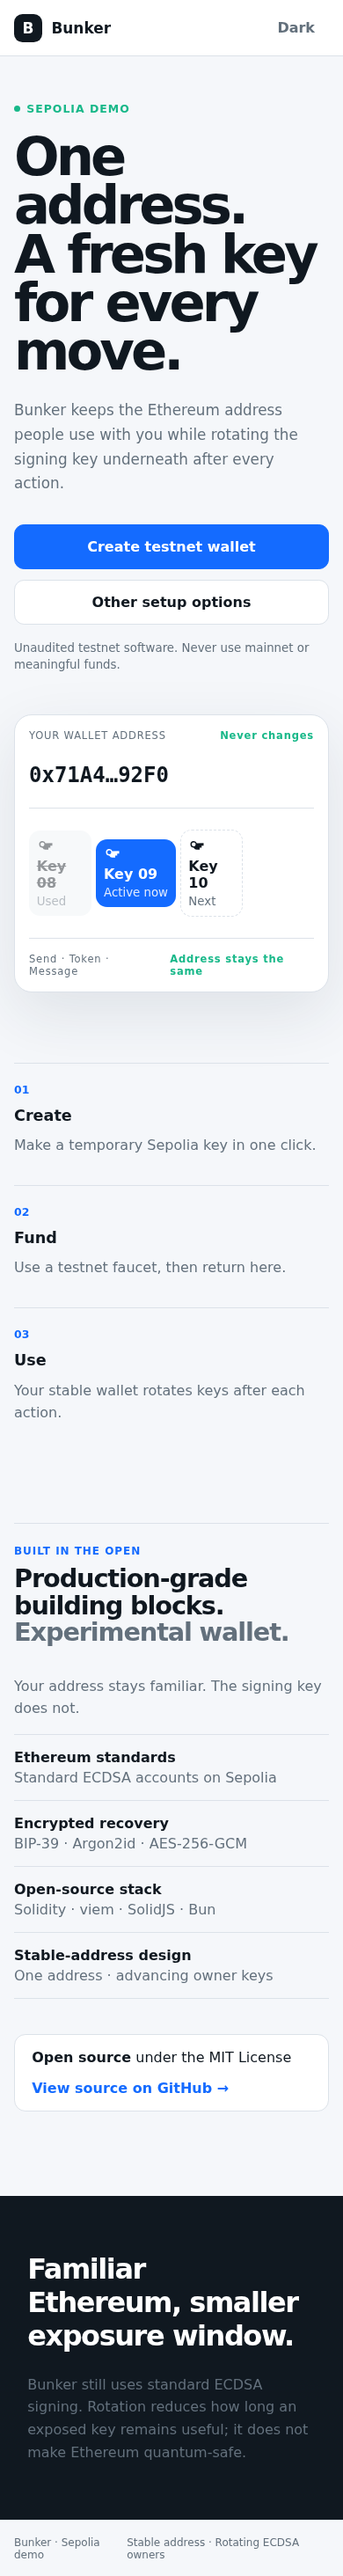
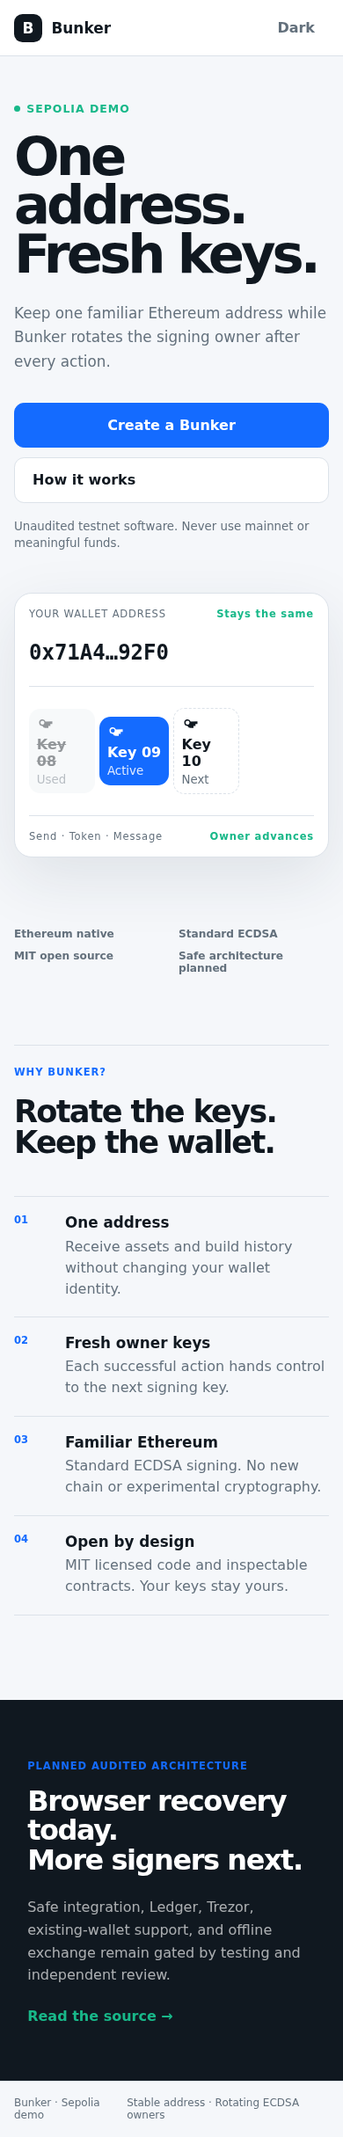
Sharpen the Bunker landing pitch

diff --git a/apps/web/src/styles.css b/apps/web/src/styles.css
@@ -1,1 +1,1 @@
-:root{font-family:ui-sans-serif,-apple-system,BlinkMacSystemFont,"Segoe UI",sans-serif;font-synthesis:none;color-scheme:light;background:#f5f7fa}*{box-sizing:border-box}body{margin:0}button,input,textarea{font:inherit}.site{--bg:#f5f7fa;--surface:#fff;--soft:#eef2f6;--line:#dce2e9;--text:#101820;--muted:#63707c;--accent:#146bff;--mint:#18b889;--ink:#fff;min-height:100vh;background:var(--bg);color:var(--text)}.site.dark{--bg:#0b0f14;--surface:#121820;--soft:#18212b;--line:#283442;--text:#f1f5f8;--muted:#9eabb7;--accent:#5c95ff;--mint:#4dd4aa;--ink:#071018;color-scheme:dark}::selection{background:var(--accent);color:#fff}button{border:1px solid var(--line);background:var(--surface);color:var(--text);border-radius:.7rem;padding:.72rem 1rem;font-weight:650;cursor:pointer}button:hover:not(:disabled){border-color:var(--accent)}button:disabled{opacity:.48;cursor:not-allowed}button:focus-visible,input:focus-visible,textarea:focus-visible,a:focus-visible{outline:3px solid var(--accent);outline-offset:2px}.primary{background:var(--accent);border-color:var(--accent);color:#fff}.wide{width:100%;padding:.95rem}.top{height:72px;display:flex;align-items:center;padding:0 clamp(1rem,4vw,4rem);border-bottom:1px solid var(--line);background:color-mix(in srgb,var(--surface),transparent 8%);position:relative;z-index:2}.brand{border:0;background:transparent;padding:0;display:flex;align-items:center;gap:.65rem;font-size:1.06rem}.brand span{display:grid;place-items:center;width:32px;height:32px;border-radius:.6rem;background:var(--text);color:var(--surface);font-weight:900}.top nav{margin-left:auto;display:flex;gap:.35rem}.top nav button{border:0;background:transparent;color:var(--muted)}.top nav button:hover{color:var(--text);background:var(--soft)}.toast{position:fixed;top:84px;left:50%;transform:translateX(-50%);z-index:10;background:var(--text);color:var(--surface);padding:.75rem 1rem;border-radius:2rem;box-shadow:0 12px 35px rgba(0,0,0,.16);font-size:.86rem;max-width:calc(100vw - 2rem)}main{min-height:calc(100vh - 136px)}.hero-new{max-width:1240px;margin:auto;padding:clamp(4rem,9vw,8rem) clamp(1rem,4vw,3rem) 5rem;display:grid;grid-template-columns:1fr .9fr;gap:clamp(3rem,8vw,8rem);align-items:center}.status-dot{display:inline-flex;align-items:center;gap:.45rem;color:var(--mint);font-size:.78rem;font-weight:750;text-transform:uppercase;letter-spacing:.08em}.status-dot:before{content:"";width:7px;height:7px;border-radius:50%;background:var(--mint)}h1,h2,p{margin-top:0}.hero-copy h1{font-size:clamp(3.5rem,7vw,6.8rem);line-height:.91;letter-spacing:-.065em;margin:1.25rem 0 1.6rem;max-width:10ch}.hero-copy>p{font-size:clamp(1.05rem,1.6vw,1.28rem);line-height:1.65;color:var(--muted);max-width:590px}.hero-actions,.secure-actions,.setup-actions{display:flex;gap:.7rem;flex-wrap:wrap;margin:2rem 0 1rem}.hero-actions button{padding:.95rem 1.25rem}.hero-copy>small{color:var(--muted)}.mechanism{background:var(--surface);border:1px solid var(--line);border-radius:1.25rem;padding:1.5rem;box-shadow:0 24px 70px rgba(34,51,68,.1)}.address-head,.action-line{display:flex;justify-content:space-between;gap:1rem;font-size:.72rem;color:var(--muted);letter-spacing:.07em}.address-head b,.action-line b{color:var(--mint)}.mechanism>code{display:block;font:700 clamp(1.5rem,3vw,2.5rem)/1 ui-monospace,SFMono-Regular,monospace;padding:1.6rem 0;border-bottom:1px solid var(--line)}.key-track{display:grid;grid-template-columns:1fr auto 1fr auto 1fr;align-items:center;gap:.6rem;padding:1.5rem 0}.key{display:grid;gap:.25rem;padding:.8rem;border-radius:.8rem;background:var(--soft)}.key svg{width:20px;fill:currentColor}.key span{font-weight:750}.key small{color:var(--muted)}.key.spent{opacity:.45}.key.spent span{text-decoration:line-through}.key.active{background:var(--accent);color:#fff}.key.active small{color:#dfeaff}.key.next{border:1px dashed var(--line);background:transparent}.key-track>i{font-style:normal;color:var(--muted)}.action-line{padding-top:1rem;border-top:1px solid var(--line)}.how{max-width:1240px;margin:auto;padding:0 clamp(1rem,4vw,3rem) 5rem;display:grid;grid-template-columns:repeat(3,1fr);gap:2rem}.how>div{border-top:1px solid var(--line);padding-top:1.2rem}.how b{color:var(--accent);font-size:.78rem}.how h2{font-size:1.1rem;margin:.7rem 0}.how p,.truth p,.advanced>p,.setup>p,.secure>p,.muted{color:var(--muted);line-height:1.6}.proof{max-width:1240px;margin:auto;padding:1rem clamp(1rem,4vw,3rem) 6rem}.proof-head{display:grid;grid-template-columns:.6fr 1.3fr 1fr;gap:2rem;align-items:start;border-top:1px solid var(--line);padding-top:1.5rem}.proof-head>span{color:var(--accent);font-size:.75rem;font-weight:750;text-transform:uppercase;letter-spacing:.08em}.proof-head h2{font-size:clamp(1.8rem,3vw,3rem);line-height:1.05;letter-spacing:-.04em}.proof-head h2 em{font-style:normal;color:var(--muted)}.proof-head p{color:var(--muted);line-height:1.6}.proof-list{margin-left:calc(60% / 3);border-top:1px solid var(--line)}.proof-list>div{display:grid;grid-template-columns:.8fr 1.2fr;gap:1rem;padding:1rem 0;border-bottom:1px solid var(--line)}.proof-list span{color:var(--muted)}.source-strip{margin-top:2.5rem;background:var(--surface);border:1px solid var(--line);border-radius:.8rem;padding:1rem 1.2rem;display:flex;justify-content:space-between;gap:1rem}.source-strip a{color:var(--accent);font-weight:700;text-decoration:none}.truth{background:var(--text);color:var(--surface);padding:4rem clamp(1rem,8vw,10rem);display:flex;justify-content:space-between;gap:3rem;align-items:center}.truth h2{font-size:clamp(2rem,4vw,3.6rem);letter-spacing:-.045em;max-width:14ch;margin:0}.truth p{max-width:580px;margin:0}.setup,.advanced,.secure{width:min(720px,calc(100% - 2rem));margin:auto;padding:clamp(3rem,8vw,7rem) 0}.ephemeral-note{font-size:.8rem;color:var(--muted);border-left:1px solid var(--mint);padding-left:.8rem}.setup h1,.advanced h1,.secure h1{font-size:clamp(2.5rem,6vw,4.8rem);line-height:.98;letter-spacing:-.05em;margin:2rem 0 1rem}.stepper{display:grid;grid-template-columns:repeat(3,1fr);position:relative}.stepper:before{content:"";position:absolute;left:2rem;right:2rem;top:17px;height:1px;background:var(--line)}.stepper span{position:relative;display:grid;justify-items:center;gap:.5rem;color:var(--muted);font-size:.72rem}.stepper span:first-letter{background:var(--surface)}.stepper span b{font-size:.8rem}.stepper span.done{color:var(--mint)}.setup-address,.stable{margin:2rem 0;background:var(--surface);border:1px solid var(--line);border-radius:1rem;padding:1rem;display:grid;grid-template-columns:1fr auto;gap:.65rem;align-items:center}.setup-address span,.stable span{font-size:.75rem;color:var(--muted)}.setup-address code,.stable code{grid-column:1/2;overflow-wrap:anywhere;color:var(--accent)}.setup-address button{grid-row:1/3;grid-column:2}.balance-row{display:flex;justify-content:space-between;border-block:1px solid var(--line);padding:1.2rem 0}.setup-actions button{flex:1}.text-button,.back{border:0;background:transparent;color:var(--muted);padding-left:0}.wallet{max-width:1180px;margin:auto;padding:clamp(2.5rem,6vw,5rem) 1rem}.wallet-top{display:grid;grid-template-columns:1fr 340px;gap:2rem;align-items:end}.wallet-top h1{font-size:clamp(3.5rem,7vw,6rem);letter-spacing:-.06em;margin:1rem 0 .5rem}.address-copy{border:0;padding-left:0;background:transparent;color:var(--muted)}.spendable{display:block;color:var(--muted);margin-bottom:.6rem}.rotation-card{background:var(--text);color:var(--surface);padding:1.4rem;border-radius:1rem}.rotation-card>span{font-size:.68rem;letter-spacing:.1em}.rotation-card strong{display:block;font-size:2rem;margin:.5rem 0}.rotation-card p{color:color-mix(in srgb,var(--surface),transparent 35%);font-size:.8rem}.rotation-card>div{height:5px;background:color-mix(in srgb,var(--surface),transparent 80%);border-radius:5px}.rotation-card i{display:block;height:100%;background:var(--mint);border-radius:5px}.stable{grid-template-columns:1fr auto}.stable b{grid-row:1/3;grid-column:2;color:var(--mint);font-size:.75rem}.wallet-grid{display:grid;grid-template-columns:1.25fr .75fr;gap:2rem;margin-top:2rem}.actions-panel,.activity{background:var(--surface);border:1px solid var(--line);border-radius:1rem;padding:1.4rem}.action-tabs{display:flex;gap:.4rem;border-bottom:1px solid var(--line);margin:-.3rem -.3rem 1.5rem;padding:0 .3rem 1rem}.action-tabs button{display:flex;gap:.4rem;align-items:center;border:0;background:transparent;color:var(--muted)}.action-tabs button.active{background:var(--soft);color:var(--text)}svg{width:18px;height:18px;fill:currentColor}.actions-panel h2,.activity h2{font-size:1.15rem}.actions-panel label{display:grid;gap:.45rem;margin:1rem 0;color:var(--muted);font-size:.78rem}.actions-panel input,.actions-panel textarea,.secure input,.secure textarea{width:100%;border:1px solid var(--line);background:var(--bg);color:var(--text);padding:.85rem;border-radius:.65rem}.split{display:grid;grid-template-columns:1fr 110px;gap:.7rem}.activity-row{display:grid;grid-template-columns:auto 1fr auto;gap:.8rem;align-items:start;padding:1rem 0;border-top:1px solid var(--line)}.activity-row>span{font-size:.65rem;background:var(--soft);padding:.3rem .45rem;border-radius:1rem;color:var(--muted)}.activity-row p{display:grid;gap:.25rem;margin:0}.activity-row small{color:var(--muted)}.activity-row a{color:var(--accent);font-size:.75rem}.option-list{display:grid;margin-top:2.5rem;border-top:1px solid var(--line)}.option-list button{border:0;border-bottom:1px solid var(--line);border-radius:0;background:transparent;display:grid;grid-template-columns:1fr auto;text-align:left;padding:1.2rem 0}.option-list button span{font-size:1rem}.option-list button small{grid-row:2;color:var(--muted);font-weight:400}.option-list button b{grid-row:1/3;grid-column:2;align-self:center;color:var(--accent)}.words{list-style:none;display:grid;grid-template-columns:repeat(4,1fr);gap:1px;background:var(--line);padding:1px;margin:2rem 0}.words li{background:var(--surface);padding:.8rem;font-weight:700}.words span{display:block;color:var(--muted);font-size:.65rem}.check{display:flex;gap:.6rem;align-items:center;color:var(--muted)}.check input{width:auto}.confirm{display:grid;grid-template-columns:repeat(3,1fr);gap:.7rem}.secure label{display:grid;gap:.45rem;margin:1rem 0;color:var(--muted);font-size:.8rem}footer{height:64px;border-top:1px solid var(--line);display:flex;justify-content:space-between;align-items:center;padding:0 clamp(1rem,4vw,4rem);color:var(--muted);font-size:.75rem}@media(max-width:760px){.top{height:64px}.top nav button:not(.theme){display:none}.hero-new{grid-template-columns:1fr;padding-top:3rem;gap:3rem}.hero-copy h1{font-size:3.8rem}.hero-actions{display:grid}.mechanism{padding:1rem}.key-track{gap:.3rem}.key{padding:.55rem}.key-track>i{display:none}.how{grid-template-columns:1fr;gap:1rem}.proof-head{grid-template-columns:1fr;gap:.6rem}.proof-list{margin-left:0}.proof-list>div{grid-template-columns:1fr;gap:.25rem}.source-strip{display:grid}.truth{display:block}.truth p{margin-top:1.5rem}.wallet-top,.wallet-grid{grid-template-columns:1fr}.stable{grid-template-columns:1fr}.stable b{grid-row:auto;grid-column:1}.words{grid-template-columns:repeat(3,1fr)}.confirm{grid-template-columns:1fr}.setup-actions,.secure-actions{display:grid}.action-tabs button{padding:.65rem}.toast{top:72px}}@media(prefers-reduced-motion:reduce){*{scroll-behavior:auto!important;transition:none!important}}
+:root{font-family:ui-sans-serif,-apple-system,BlinkMacSystemFont,"Segoe UI",sans-serif;font-synthesis:none;color-scheme:light;background:#f5f7fa}*{box-sizing:border-box}body{margin:0}button,input,textarea{font:inherit}.site{--bg:#f5f7fa;--surface:#fff;--soft:#eef2f6;--line:#dce2e9;--text:#101820;--muted:#63707c;--accent:#146bff;--mint:#18b889;--ink:#fff;min-height:100vh;background:var(--bg);color:var(--text)}.site.dark{--bg:#0b0f14;--surface:#121820;--soft:#18212b;--line:#283442;--text:#f1f5f8;--muted:#9eabb7;--accent:#5c95ff;--mint:#4dd4aa;--ink:#071018;color-scheme:dark}::selection{background:var(--accent);color:#fff}button{border:1px solid var(--line);background:var(--surface);color:var(--text);border-radius:.7rem;padding:.72rem 1rem;font-weight:650;cursor:pointer}button:hover:not(:disabled){border-color:var(--accent)}button:disabled{opacity:.48;cursor:not-allowed}button:focus-visible,input:focus-visible,textarea:focus-visible,a:focus-visible{outline:3px solid var(--accent);outline-offset:2px}.primary{background:var(--accent);border-color:var(--accent);color:#fff}.wide{width:100%;padding:.95rem}.top{height:72px;display:flex;align-items:center;padding:0 clamp(1rem,4vw,4rem);border-bottom:1px solid var(--line);background:color-mix(in srgb,var(--surface),transparent 8%);position:relative;z-index:2}.brand{border:0;background:transparent;padding:0;display:flex;align-items:center;gap:.65rem;font-size:1.06rem}.brand span{display:grid;place-items:center;width:32px;height:32px;border-radius:.6rem;background:var(--text);color:var(--surface);font-weight:900}.top nav{margin-left:auto;display:flex;gap:.35rem}.top nav button{border:0;background:transparent;color:var(--muted)}.top nav button:hover{color:var(--text);background:var(--soft)}.toast{position:fixed;top:84px;left:50%;transform:translateX(-50%);z-index:10;background:var(--text);color:var(--surface);padding:.75rem 1rem;border-radius:2rem;box-shadow:0 12px 35px rgba(0,0,0,.16);font-size:.86rem;max-width:calc(100vw - 2rem)}main{min-height:calc(100vh - 136px)}.hero-new{max-width:1240px;margin:auto;padding:clamp(4rem,9vw,8rem) clamp(1rem,4vw,3rem) 5rem;display:grid;grid-template-columns:1fr .9fr;gap:clamp(3rem,8vw,8rem);align-items:center}.status-dot{display:inline-flex;align-items:center;gap:.45rem;color:var(--mint);font-size:.78rem;font-weight:750;text-transform:uppercase;letter-spacing:.08em}.status-dot:before{content:"";width:7px;height:7px;border-radius:50%;background:var(--mint)}h1,h2,p{margin-top:0}.hero-copy h1{font-size:clamp(3.5rem,7vw,6.8rem);line-height:.91;letter-spacing:-.065em;margin:1.25rem 0 1.6rem;max-width:10ch}.hero-copy>p{font-size:clamp(1.05rem,1.6vw,1.28rem);line-height:1.65;color:var(--muted);max-width:590px}.hero-actions,.secure-actions,.setup-actions{display:flex;gap:.7rem;flex-wrap:wrap;margin:2rem 0 1rem}.hero-actions button{padding:.95rem 1.25rem}.hero-copy>small{color:var(--muted)}.mechanism{background:var(--surface);border:1px solid var(--line);border-radius:1.25rem;padding:1.5rem;box-shadow:0 24px 70px rgba(34,51,68,.1)}.address-head,.action-line{display:flex;justify-content:space-between;gap:1rem;font-size:.72rem;color:var(--muted);letter-spacing:.07em}.address-head b,.action-line b{color:var(--mint)}.mechanism>code{display:block;font:700 clamp(1.5rem,3vw,2.5rem)/1 ui-monospace,SFMono-Regular,monospace;padding:1.6rem 0;border-bottom:1px solid var(--line)}.key-track{display:grid;grid-template-columns:1fr auto 1fr auto 1fr;align-items:center;gap:.6rem;padding:1.5rem 0}.key{display:grid;gap:.25rem;padding:.8rem;border-radius:.8rem;background:var(--soft)}.key svg{width:20px;fill:currentColor}.key span{font-weight:750}.key small{color:var(--muted)}.key.spent{opacity:.45}.key.spent span{text-decoration:line-through}.key.active{background:var(--accent);color:#fff}.key.active small{color:#dfeaff}.key.next{border:1px dashed var(--line);background:transparent}.key-track>i{font-style:normal;color:var(--muted)}.action-line{padding-top:1rem;border-top:1px solid var(--line)}.button-link{display:inline-flex;align-items:center;border:1px solid var(--line);background:var(--surface);color:var(--text);border-radius:.7rem;padding:.95rem 1.25rem;font-weight:650;text-decoration:none}.button-link:hover{border-color:var(--accent)}.trust-line{max-width:1240px;margin:auto;padding:0 clamp(1rem,4vw,3rem) 5rem;display:flex;gap:1.5rem;flex-wrap:wrap;color:var(--muted);font-size:.76rem;font-weight:700}.trust-line span+span:before{content:"·";margin-right:1.5rem;color:var(--line)}.why{max-width:1240px;margin:auto;padding:0 clamp(1rem,4vw,3rem) 6rem;display:grid;grid-template-columns:.7fr 1.3fr;gap:clamp(3rem,8vw,8rem)}.why-head{border-top:1px solid var(--line);padding-top:1.2rem}.why-head>span,.roadmap span{color:var(--accent);font-size:.72rem;font-weight:750;text-transform:uppercase;letter-spacing:.08em}.why-head h2{font-size:clamp(2.2rem,4vw,4.2rem);line-height:1;letter-spacing:-.05em;margin:1.2rem 0}.why-list{border-top:1px solid var(--line)}.why-list article{display:grid;grid-template-columns:42px 1fr;gap:1rem;padding:1.2rem 0;border-bottom:1px solid var(--line)}.why-list article>b{color:var(--accent);font-size:.72rem}.why-list h3{margin:0 0 .35rem;font-size:1.05rem}.why-list p{margin:0;color:var(--muted);line-height:1.5}.roadmap{background:var(--text);color:var(--surface);padding:4rem max(clamp(1rem,8vw,8rem),calc((100vw - 1240px)/2));display:grid;grid-template-columns:1fr 1fr auto;gap:3rem;align-items:center}.roadmap h2{font-size:clamp(2rem,4vw,3.5rem);line-height:1.05;letter-spacing:-.045em;margin:1rem 0 0}.roadmap p{color:color-mix(in srgb,var(--surface),transparent 35%);line-height:1.6;margin:0}.roadmap a{color:var(--mint);font-weight:750;text-decoration:none;white-space:nowrap}.setup,.advanced,.secure{width:min(720px,calc(100% - 2rem));margin:auto;padding:clamp(3rem,8vw,7rem) 0}.ephemeral-note{font-size:.8rem;color:var(--muted);border-left:1px solid var(--mint);padding-left:.8rem}.setup h1,.advanced h1,.secure h1{font-size:clamp(2.5rem,6vw,4.8rem);line-height:.98;letter-spacing:-.05em;margin:2rem 0 1rem}.stepper{display:grid;grid-template-columns:repeat(3,1fr);position:relative}.stepper:before{content:"";position:absolute;left:2rem;right:2rem;top:17px;height:1px;background:var(--line)}.stepper span{position:relative;display:grid;justify-items:center;gap:.5rem;color:var(--muted);font-size:.72rem}.stepper span:first-letter{background:var(--surface)}.stepper span b{font-size:.8rem}.stepper span.done{color:var(--mint)}.setup-address,.stable{margin:2rem 0;background:var(--surface);border:1px solid var(--line);border-radius:1rem;padding:1rem;display:grid;grid-template-columns:1fr auto;gap:.65rem;align-items:center}.setup-address span,.stable span{font-size:.75rem;color:var(--muted)}.setup-address code,.stable code{grid-column:1/2;overflow-wrap:anywhere;color:var(--accent)}.setup-address button{grid-row:1/3;grid-column:2}.balance-row{display:flex;justify-content:space-between;border-block:1px solid var(--line);padding:1.2rem 0}.setup-actions button{flex:1}.text-button,.back{border:0;background:transparent;color:var(--muted);padding-left:0}.wallet{max-width:1180px;margin:auto;padding:clamp(2.5rem,6vw,5rem) 1rem}.wallet-top{display:grid;grid-template-columns:1fr 340px;gap:2rem;align-items:end}.wallet-top h1{font-size:clamp(3.5rem,7vw,6rem);letter-spacing:-.06em;margin:1rem 0 .5rem}.address-copy{border:0;padding-left:0;background:transparent;color:var(--muted)}.spendable{display:block;color:var(--muted);margin-bottom:.6rem}.rotation-card{background:var(--text);color:var(--surface);padding:1.4rem;border-radius:1rem}.rotation-card>span{font-size:.68rem;letter-spacing:.1em}.rotation-card strong{display:block;font-size:2rem;margin:.5rem 0}.rotation-card p{color:color-mix(in srgb,var(--surface),transparent 35%);font-size:.8rem}.rotation-card>div{height:5px;background:color-mix(in srgb,var(--surface),transparent 80%);border-radius:5px}.rotation-card i{display:block;height:100%;background:var(--mint);border-radius:5px}.stable{grid-template-columns:1fr auto}.stable b{grid-row:1/3;grid-column:2;color:var(--mint);font-size:.75rem}.wallet-grid{display:grid;grid-template-columns:1.25fr .75fr;gap:2rem;margin-top:2rem}.actions-panel,.activity{background:var(--surface);border:1px solid var(--line);border-radius:1rem;padding:1.4rem}.action-tabs{display:flex;gap:.4rem;border-bottom:1px solid var(--line);margin:-.3rem -.3rem 1.5rem;padding:0 .3rem 1rem}.action-tabs button{display:flex;gap:.4rem;align-items:center;border:0;background:transparent;color:var(--muted)}.action-tabs button.active{background:var(--soft);color:var(--text)}svg{width:18px;height:18px;fill:currentColor}.actions-panel h2,.activity h2{font-size:1.15rem}.actions-panel label{display:grid;gap:.45rem;margin:1rem 0;color:var(--muted);font-size:.78rem}.actions-panel input,.actions-panel textarea,.secure input,.secure textarea{width:100%;border:1px solid var(--line);background:var(--bg);color:var(--text);padding:.85rem;border-radius:.65rem}.split{display:grid;grid-template-columns:1fr 110px;gap:.7rem}.activity-row{display:grid;grid-template-columns:auto 1fr auto;gap:.8rem;align-items:start;padding:1rem 0;border-top:1px solid var(--line)}.activity-row>span{font-size:.65rem;background:var(--soft);padding:.3rem .45rem;border-radius:1rem;color:var(--muted)}.activity-row p{display:grid;gap:.25rem;margin:0}.activity-row small{color:var(--muted)}.activity-row a{color:var(--accent);font-size:.75rem}.option-list{display:grid;margin-top:2.5rem;border-top:1px solid var(--line)}.option-list button{border:0;border-bottom:1px solid var(--line);border-radius:0;background:transparent;display:grid;grid-template-columns:1fr auto;text-align:left;padding:1.2rem 0}.option-list button span{font-size:1rem}.option-list button small{grid-row:2;color:var(--muted);font-weight:400}.option-list button b{grid-row:1/3;grid-column:2;align-self:center;color:var(--accent)}.words{list-style:none;display:grid;grid-template-columns:repeat(4,1fr);gap:1px;background:var(--line);padding:1px;margin:2rem 0}.words li{background:var(--surface);padding:.8rem;font-weight:700}.words span{display:block;color:var(--muted);font-size:.65rem}.check{display:flex;gap:.6rem;align-items:center;color:var(--muted)}.check input{width:auto}.confirm{display:grid;grid-template-columns:repeat(3,1fr);gap:.7rem}.secure label{display:grid;gap:.45rem;margin:1rem 0;color:var(--muted);font-size:.8rem}footer{height:64px;border-top:1px solid var(--line);display:flex;justify-content:space-between;align-items:center;padding:0 clamp(1rem,4vw,4rem);color:var(--muted);font-size:.75rem}@media(max-width:760px){.top{height:64px}.top nav button:not(.theme){display:none}.hero-new{grid-template-columns:1fr;padding-top:3rem;gap:3rem}.hero-copy h1{font-size:3.8rem}.hero-actions{display:grid}.mechanism{padding:1rem}.key-track{gap:.3rem}.key{padding:.55rem}.key-track>i{display:none}.trust-line{display:grid;grid-template-columns:1fr 1fr;gap:.65rem 1rem}.trust-line span+span:before{content:none}.why{grid-template-columns:1fr;gap:1.5rem}.roadmap{grid-template-columns:1fr;gap:1.5rem}.roadmap a{white-space:normal}.wallet-top,.wallet-grid{grid-template-columns:1fr}.stable{grid-template-columns:1fr}.stable b{grid-row:auto;grid-column:1}.words{grid-template-columns:repeat(3,1fr)}.confirm{grid-template-columns:1fr}.setup-actions,.secure-actions{display:grid}.action-tabs button{padding:.65rem}.toast{top:72px}}@media(prefers-reduced-motion:reduce){*{scroll-behavior:auto!important;transition:none!important}}

diff --git a/apps/web/src/App.tsx b/apps/web/src/App.tsx
@@ -31,7 +31,7 @@ export default function App(){
  onCleanup(()=>{wipe();clearEphemeralBurner()});
  return <div class={`site ${theme()}`}><header class="top"><button class="brand" onClick={()=>go(walletAddress()?"wallet":"landing")}><span>B</span>Bunker</button><nav><Show when={walletAddress()}><button onClick={()=>go("wallet")}>Wallet</button></Show><button onClick={()=>go("advanced")}>Setup options</button><button class="theme" onClick={()=>setTheme(theme()==="light"?"dark":"light")}>{theme()==="light"?"Dark":"Light"}</button><Show when={walletAddress()}><button onClick={exit}>Exit</button></Show></nav></header><Show when={notice()}><div class="toast" role="status">{notice()}</div></Show>
  <main>
- <Show when={view()==="landing"}><section class="hero-new"><div class="hero-copy"><span class="status-dot">Sepolia demo</span><h1>One address.<br/>A fresh key for every move.</h1><p>Bunker keeps the Ethereum address people use with you while rotating the signing key underneath after every action.</p><div class="hero-actions"><button class="primary" onClick={begin}>Create testnet wallet</button><button onClick={()=>go("advanced")}>Other setup options</button></div><small>Unaudited testnet software. Never use mainnet or meaningful funds.</small></div><div class="mechanism" aria-label="Stable wallet address with rotating owner keys"><div class="address-head"><span>YOUR WALLET ADDRESS</span><b>Never changes</b></div><code>0x71A4…92F0</code><div class="key-track"><div class="key spent"><Icon name="key"/><span>Key 08</span><small>Used</small></div><i>→</i><div class="key active"><Icon name="key"/><span>Key 09</span><small>Active now</small></div><i>→</i><div class="key next"><Icon name="key"/><span>Key 10</span><small>Next</small></div></div><div class="action-line"><span>Send · Token · Message</span><b>Address stays the same</b></div></div></section><section class="how"><div><b>01</b><h2>Create</h2><p>Make a temporary Sepolia key in one click.</p></div><div><b>02</b><h2>Fund</h2><p>Use a testnet faucet, then return here.</p></div><div><b>03</b><h2>Use</h2><p>Your stable wallet rotates keys after each action.</p></div></section><section class="proof"><div class="proof-head"><span>Built in the open</span><h2>Production-grade building blocks.<br/><em>Experimental wallet.</em></h2><p>Your address stays familiar. The signing key does not.</p></div><div class="proof-list"><div><b>Ethereum standards</b><span>Standard ECDSA accounts on Sepolia</span></div><div><b>Encrypted recovery</b><span>BIP-39 · Argon2id · AES-256-GCM</span></div><div><b>Open-source stack</b><span>Solidity · viem · SolidJS · Bun</span></div><div><b>Stable-address design</b><span>One address · advancing owner keys</span></div></div><div class="source-strip"><span><b>Open source</b> under the MIT License</span><a href="https://github.com/SilentCicero/bunker-wallet" target="_blank" rel="noreferrer">View source on GitHub →</a></div></section><section class="truth"><h2>Familiar Ethereum, smaller exposure window.</h2><p>Bunker still uses standard ECDSA signing. Rotation reduces how long an exposed key remains useful; it does not make Ethereum quantum-safe.</p></section></Show>
+ <Show when={view()==="landing"}><section class="hero-new"><div class="hero-copy"><span class="status-dot">Sepolia demo</span><h1>One address.<br/>Fresh keys.</h1><p>Keep one familiar Ethereum address while Bunker rotates the signing owner after every action.</p><div class="hero-actions"><button class="primary" onClick={begin}>Create a Bunker</button><a class="button-link" href="#how-it-works">How it works</a></div><small>Unaudited testnet software. Never use mainnet or meaningful funds.</small></div><div class="mechanism" aria-label="Stable wallet address with rotating owner keys"><div class="address-head"><span>YOUR WALLET ADDRESS</span><b>Stays the same</b></div><code>0x71A4…92F0</code><div class="key-track"><div class="key spent"><Icon name="key"/><span>Key 08</span><small>Used</small></div><i>→</i><div class="key active"><Icon name="key"/><span>Key 09</span><small>Active</small></div><i>→</i><div class="key next"><Icon name="key"/><span>Key 10</span><small>Next</small></div></div><div class="action-line"><span>Send · Token · Message</span><b>Owner advances</b></div></div></section><div class="trust-line"><span>Ethereum native</span><span>Standard ECDSA</span><span>MIT open source</span><span>Safe architecture planned</span></div><section class="why" id="how-it-works"><div class="why-head"><span>Why Bunker?</span><h2>Rotate the keys.<br/>Keep the wallet.</h2></div><div class="why-list"><article><b>01</b><div><h3>One address</h3><p>Receive assets and build history without changing your wallet identity.</p></div></article><article><b>02</b><div><h3>Fresh owner keys</h3><p>Each successful action hands control to the next signing key.</p></div></article><article><b>03</b><div><h3>Familiar Ethereum</h3><p>Standard ECDSA signing. No new chain or experimental cryptography.</p></div></article><article><b>04</b><div><h3>Open by design</h3><p>MIT licensed code and inspectable contracts. Your keys stay yours.</p></div></article></div></section><section class="roadmap"><div><span>Planned audited architecture</span><h2>Browser recovery today.<br/>More signers next.</h2></div><p>Safe integration, Ledger, Trezor, existing-wallet support, and offline exchange remain gated by testing and independent review.</p><a href="https://github.com/SilentCicero/bunker-wallet" target="_blank" rel="noreferrer">Read the source →</a></section></Show>
  <Show when={view()==="setup"}><section class="setup"><div class="stepper"><span class="done">1 <b>Key</b></span><span classList={{done:setupBalance()>=parseEther("0.007")}}>2 <b>Fund</b></span><span classList={{done:Boolean(walletAddress())}}>3 <b>Create</b></span></div><h1>{setupBalance()>=parseEther("0.007")?"Create your stable wallet.":"Add Sepolia test ETH."}</h1><p>{setupBalance()>=parseEther("0.007")?"Your setup key is funded. Create the wallet contract and move the test ETH into its permanent address.":"Your temporary setup address is ready and copied when you open a faucet."}</p><Show when={!recoverable()}><p class="ephemeral-note">Quick setup is memory-only. Do not refresh during funding or after wallet creation. Use Recovery phrase setup if you want restoration later.</p></Show><div class="setup-address"><span>Setup address</span><code>{setupAddress()}</code><button onClick={()=>copy(setupAddress())}>Copy</button></div><div class="balance-row"><span>Setup balance</span><strong>{Number(formatEther(setupBalance())).toFixed(4)} ETH</strong></div><Show when={setupBalance()>=parseEther("0.007")} fallback={<div class="setup-actions"><button class="primary" onClick={openFaucet}>Open QuickNode faucet</button><button onClick={checkFunding} disabled={Boolean(busy())}>{busy()||"I funded it — check balance"}</button></div>}><button class="primary wide" onClick={createStableWallet} disabled={Boolean(busy())}>{busy()||"Create stable wallet"}</button></Show><button class="text-button" onClick={()=>go("advanced")}>Use another setup method</button></section></Show>
  <Show when={view()==="wallet"&&walletAddress()}><section class="wallet"><div class="wallet-top"><div><span class="status-dot">Sepolia · live</span><h1>{Number(formatEther(walletBalance())).toFixed(4)} ETH</h1><small class="spendable">Keep 0.001 ETH for the next owner key on every action.</small><button class="address-copy" onClick={()=>copy(walletAddress())}>{short(walletAddress()!)} · Copy</button></div><div class="rotation-card"><span>OWNER ROTATION</span><strong>Key {rotation()+1}</strong><p>Active underneath your stable address</p><div><i style={{width:`${Math.min(100,(rotation()+1)*8)}%`}}/></div></div></div><div class="stable"><span>Stable wallet address</span><code>{walletAddress()}</code><b>Does not change</b></div><div class="wallet-grid"><section class="actions-panel"><div class="action-tabs"><button classList={{active:action()==="eth"}} onClick={()=>setAction("eth")}><Icon name="send"/>ETH</button><button classList={{active:action()==="token"}} onClick={()=>setAction("token")}><Icon name="token"/>Token</button><button classList={{active:action()==="message"}} onClick={()=>setAction("message")}><Icon name="message"/>Wall</button></div><Show when={action()==="eth"}><h2>Send ETH</h2><label>Recipient<input ref={to} placeholder="0x…"/></label><label>Amount<input ref={amount} inputmode="decimal" placeholder="0.001"/></label><button class="primary wide" onClick={runETH} disabled={Boolean(busy())}>{busy()||"Send + rotate key"}</button></Show><Show when={action()==="token"}><h2>Send ERC-20</h2><label>Token contract<input ref={token} placeholder="0x…"/></label><label>Recipient<input ref={to} placeholder="0x…"/></label><div class="split"><label>Amount<input ref={amount} placeholder="10"/></label><label>Decimals<input ref={decimals} value="18"/></label></div><button class="primary wide" onClick={runToken} disabled={Boolean(busy())}>{busy()||"Send token + rotate"}</button></Show><Show when={action()==="message"}><h2>Post to the Bunker wall</h2><p class="muted">Write a short on-chain message from this stable address.</p><textarea ref={message} maxlength="140" placeholder="Hello from my rotating wallet"/><button class="primary wide" onClick={runMessage} disabled={Boolean(busy())}>{busy()||"Post + rotate key"}</button></Show></section><aside class="activity"><h2>Under the hood</h2><For each={activity()}>{item=><div class="activity-row"><span>{item.index===rotation()?"Current":"Done"}</span><p><b>{item.label}</b><small>Owner key {item.index+1}</small></p>{item.hash&&<a href={`https://sepolia.etherscan.io/tx/${item.hash}`} target="_blank" rel="noreferrer">View</a>}</div>}</For></aside></div></section></Show>
  <Show when={view()==="advanced"}><section class="advanced"><button class="back" onClick={()=>go("landing")}>← Back</button><h1>Choose how to protect the setup key.</h1><p>Each method creates a stable wallet address with automatic owner rotation.</p><div class="option-list"><button onClick={createPhrase}><span>Recovery phrase</span><small>24 words · optional check and password</small><b>Set up</b></button><button onClick={()=>go("load")}><span>Load existing wallet</span><small>Encrypted vault or 24 words</small><b>Load</b></button><button disabled><span>Ledger</span><small>Hardware setup · compatibility verification in progress</small><b>Soon</b></button><button disabled><span>Trezor</span><small>Hardware setup · compatibility verification in progress</small><b>Soon</b></button><button disabled><span>EVM wallet</span><small>Manual next-key proof required</small><b>Soon</b></button></div></section></Show>

diff --git a/tests/e2e/web.e2e.ts b/tests/e2e/web.e2e.ts
@@ -2,6 +2,6 @@ import { expect, test } from "@playwright/test";
 import { mkdirSync } from "node:fs";
 const views=[["desktop",1440,900],["wide",1920,1080],["tablet",768,1024],["mobile",390,844],["mobile-small",360,800]] as const;
 test.beforeAll(()=>mkdirSync(".impeccable/review",{recursive:true}));
-for(const [name,width,height] of views)test(`${name} landing renders in both themes`,async({page})=>{await page.setViewportSize({width,height});await page.goto("/");await expect(page.getByRole("heading",{name:/One address/})).toBeVisible();await expect(page.getByRole("button",{name:"Create testnet wallet"})).toBeVisible();await expect(page.getByText("Production-grade building blocks.")).toBeVisible();await expect(page.getByText("BIP-39 · Argon2id · AES-256-GCM")).toBeVisible();await expect(page.getByText("MIT License")).toBeVisible();await expect(page.getByRole("link",{name:/View source on GitHub/})).toHaveAttribute("href","https://github.com/SilentCicero/bunker-wallet");expect(await page.evaluate(()=>document.documentElement.scrollWidth<=document.documentElement.clientWidth)).toBe(true);await page.screenshot({path:`.impeccable/review/${name}-light.png`,fullPage:true});await page.getByRole("button",{name:"Dark"}).click();await page.screenshot({path:`.impeccable/review/${name}-dark.png`,fullPage:true})});
-test("three-step demo creates a memory-only setup key and opens the QuickNode faucet",async({page})=>{await page.goto("/");await page.getByRole("button",{name:"Create testnet wallet"}).click();await expect(page.getByRole("heading",{name:"Add Sepolia test ETH."})).toBeVisible();const address=await page.locator(".setup-address code").innerText();expect(address).toMatch(/^0x[0-9a-fA-F]{40}$/);expect(await page.evaluate(()=>Object.keys(localStorage).every(key=>!key.includes("burner")))).toBe(true);const popupPromise=page.waitForEvent("popup");await page.getByRole("button",{name:"Open QuickNode faucet"}).click();const popup=await popupPromise;expect(popup.url()).toContain("faucet.quicknode.com/ethereum/sepolia");await popup.close();await page.screenshot({path:".impeccable/review/setup-light.png",fullPage:true})});
-test("advanced phrase setup offers optional check and password",async({page})=>{await page.goto("/");await page.getByRole("button",{name:"Other setup options"}).click();await page.getByRole("button",{name:/Recovery phrase/}).click();const next=page.getByRole("button",{name:"Check my backup"});await expect(next).toBeDisabled();await page.getByRole("checkbox").check();await expect(next).toBeEnabled();await expect(page.getByRole("button",{name:"Skip check"})).toBeEnabled()});
+for(const [name,width,height] of views)test(`${name} landing renders in both themes`,async({page})=>{await page.setViewportSize({width,height});await page.goto("/");await expect(page.getByRole("heading",{name:/One address.*Fresh keys/s})).toBeVisible();await expect(page.getByRole("button",{name:"Create a Bunker"})).toBeVisible();await expect(page.getByText("Rotate the keys.")).toBeVisible();await expect(page.getByText("Standard ECDSA signing. No new chain or experimental cryptography.")).toBeVisible();await expect(page.getByText("MIT open source")).toBeVisible();await expect(page.getByRole("link",{name:/Read the source/})).toHaveAttribute("href","https://github.com/SilentCicero/bunker-wallet");expect(await page.evaluate(()=>document.documentElement.scrollWidth<=document.documentElement.clientWidth)).toBe(true);await page.screenshot({path:`.impeccable/review/${name}-light.png`,fullPage:true});await page.getByRole("button",{name:"Dark"}).click();await page.screenshot({path:`.impeccable/review/${name}-dark.png`,fullPage:true})});
+test("three-step demo creates a memory-only setup key and opens the QuickNode faucet",async({page})=>{await page.goto("/");await page.getByRole("button",{name:"Create a Bunker"}).click();await expect(page.getByRole("heading",{name:"Add Sepolia test ETH."})).toBeVisible();const address=await page.locator(".setup-address code").innerText();expect(address).toMatch(/^0x[0-9a-fA-F]{40}$/);expect(await page.evaluate(()=>Object.keys(localStorage).every(key=>!key.includes("burner")))).toBe(true);const popupPromise=page.waitForEvent("popup");await page.getByRole("button",{name:"Open QuickNode faucet"}).click();const popup=await popupPromise;expect(popup.url()).toContain("faucet.quicknode.com/ethereum/sepolia");await popup.close();await page.screenshot({path:".impeccable/review/setup-light.png",fullPage:true})});
+test("advanced phrase setup offers optional check and password",async({page})=>{await page.goto("/");await page.getByRole("button",{name:"Setup options"}).click();await page.getByRole("button",{name:/Recovery phrase/}).click();const next=page.getByRole("button",{name:"Check my backup"});await expect(next).toBeDisabled();await page.getByRole("checkbox").check();await expect(next).toBeEnabled();await expect(page.getByRole("button",{name:"Skip check"})).toBeEnabled()});
